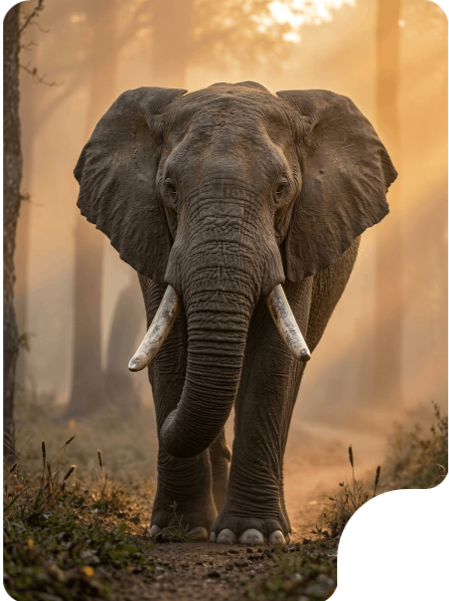
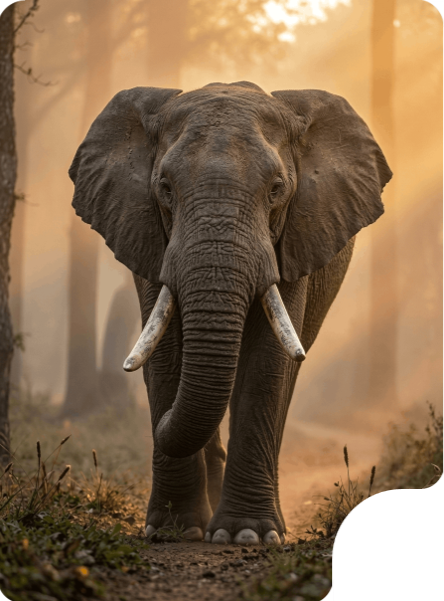
9th  commit

diff --git a/src/components/SliderForBlog.tsx b/src/components/SliderForBlog.tsx
@@ -1,0 +1,89 @@
+"use client";
+import React, { useRef } from "react";
+import Slider from "react-slick";
+import "slick-carousel/slick/slick.css";
+import "slick-carousel/slick/slick-theme.css";
+import { blogs } from "@/data/data";
+import Blog from "./ui/Blog";
+
+interface SliderForBlogProps {
+  viewPort: "desktop" | "tablet" | "mobile" | string;
+}
+
+export default function SliderForBlog({ viewPort }: SliderForBlogProps) {
+  const slides = blogs.map((item) => item);
+  const sliderRef = useRef<Slider>(null);
+
+  // Test by applying styles directly
+  const dotStyles = {
+    width: "35px",
+    height: "3px",
+    borderRadius: "5%",
+    backgroundColor: "#a0a0a0",
+  };
+
+  const activeDotStyles = {
+    ...dotStyles,
+    backgroundColor: "#000000",
+  };
+
+  return (
+    <div className={` w-full px-1 sm:px-0  pb-10  h-full  relative  `}>
+      <Slider
+        ref={sliderRef}
+        dots={false}
+        infinite={true}
+        arrows={false}
+        slidesToShow={
+          viewPort === "desktop" ? 3 : viewPort === "tablet" ? 2 : 1
+        }
+        slidesToScroll={1}
+        autoplay={true}
+        autoplaySpeed={6000}
+        speed={500}
+        dotsClass="slick-dots custom-dots top-[85%] md:left-[110px] lg:left-[210px] md:top-[-20%] "
+        customPaging={(i) => {
+          const currentSlide = (
+            sliderRef.current as unknown as {
+              innerSlider?: { state: { currentSlide: number } };
+            }
+          )?.innerSlider?.state.currentSlide;
+
+          return (
+            <div
+              className="flex items-center justify-center gap-10"
+              style={i === currentSlide ? activeDotStyles : dotStyles}
+            ></div>
+          );
+        }}
+        responsive={[
+          {
+            breakpoint: 768,
+            settings: {
+              slidesToShow:
+                viewPort === "desktop" ? 3 : viewPort === "tablet" ? 2 : 1,
+            },
+          },
+          {
+            breakpoint: 576,
+            settings: {
+              slidesToShow:
+                viewPort === "desktop" ? 3 : viewPort === "tablet" ? 2 : 1,
+            },
+          },
+        ]}
+      >
+        {slides.map((item, i) => (
+          <div key={i} className={` w-full h-full px-5 md:px-0  `}>
+            <Blog
+              name={item.name}
+              image={item.image}
+              title={item.title}
+              link={item.link}
+            />
+          </div>
+        ))}
+      </Slider>
+    </div>
+  );
+}

diff --git a/src/app/page.tsx b/src/app/page.tsx
@@ -4,11 +4,10 @@ import DualToggleButtons from "@/components/ui/DualButtons";
 import Image from "next/image";
 import { Star } from "lucide-react";
 import OrangeButton from "@/components/ui/OrangeButton";
-import { blogs } from "../data/data";
-import { GenericSlider } from "@/components/ui/GenericSlider";
 import ClientOnly from "@/components/ui/ClientOnly";
 import Testimonials from "@/components/Testimonials";
 import Education from "@/components/Education";
+import SliderForBlog from "@/components/SliderForBlog";
 
 export default function Home() {
   return (
@@ -379,21 +378,24 @@ export default function Home() {
         </div> */}
 
       {/* Blog */}
-      <div className="flex flex-col w-full h-fit items-center gap-12 px-[71px] py-[97px]">
-        <div className="  w-full flex flex-col lg:flex-row items-center justify-between gap-6 pb-10 mb-6 md:mb-0">
-          <h1 className="text-[#344054] w-fit md:min-w-[215px] h-full font-bold text-4xl md:text-5xl">
+      <div className="flex flex-col w-full h-fit items-center gap-12 px-5 md:px-[71px] border">
+        <div className="  w-full flex flex-col lg:flex-row items-center justify-between gap-6">
+          <h1 className="text-[#344054] w-fit  h-full font-bold text-2xl md:text-5xl">
             From my blog post
           </h1>
           <a href="https://thecanofy.blogspot.com/" target="blank">
             <OrangeButton title="See All" className=" " />
           </a>
         </div>
-        <GenericSlider
-          data={blogs}
-          slidesPerView={3}
-          heightClass=""
-          cardType="blog"
-        />
+        <div className=" w-full md:hidden">
+          <SliderForBlog viewPort="mobile" />
+        </div>
+        <div className=" w-full hidden md:block lg:hidden">
+          <SliderForBlog viewPort="tablet" />
+        </div>
+        <div className=" w-full hidden lg:block">
+          <SliderForBlog viewPort="desktop" />
+        </div>
       </div>
     </div>
   );

diff --git a/src/components/Education.tsx b/src/components/Education.tsx
@@ -37,7 +37,7 @@ export default function Education() {
           className="font-medium text-4xl sm:text-5xl lg:text-6xl text-[#FD853A]"
         />
       </div>
-      <div className="w-full lg:hidden">
+      <div className="w-full pt-10 md:hidden">
         {experiences.map((exp, index) => (
           <div
             key={index}
@@ -78,7 +78,7 @@ export default function Education() {
           </div>
         ))}
       </div>
-      <div className="w-full hidden scale-75 lg:flex justify-evenly">
+      <div className="w-full hidden scale-75 md:flex justify-evenly">
         <div className="flex flex-col justify-between w-[500px] gap-[60px]">
           {experiences.map((exp, index) => (
             <div key={index} className="flex flex-col gap-[14px] relative">

diff --git a/src/components/ui/GenericSlider.tsx b/src/components/ui/GenericSlider.tsx
@@ -125,11 +125,11 @@ export function GenericSlider<T extends AllowedCard>({
               spaceBetween: 16,
             },
             640: {
-              slidesPerView: isPortfolio || isBlog || isReview ? 1 : 2,
+              slidesPerView: isPortfolio || isBlog || isReview ? 1 : 3,
               spaceBetween: 18,
             },
             850: {
-              slidesPerView: isPortfolio || isBlog || isReview ? 1 : 2,
+              slidesPerView: isPortfolio || isBlog || isReview ? 1 : 3,
               spaceBetween: 20,
             },
             1024: {

diff --git a/src/data/data.ts b/src/data/data.ts
@@ -15,9 +15,9 @@ export interface IconAndText {
 
 export interface Blog {
   image: string;
-  button: string;
+  button?: string;
   name: string;
-  date: string;
+  date?: string;
   title: string;
   link: string;
 }

diff --git a/src/components/Footer.tsx b/src/components/Footer.tsx
@@ -30,7 +30,7 @@ const Footer = () => {
   return (
     <footer className="w-full min-h-[400px] lg:h-[685px] px-4 sm:px-6 lg:px-[71px] py-[30px] sm:py-[35px] lg:py-[40px] flex flex-col bg-[#272727] rounded-t-2xl sm:rounded-t-3xl text-white justify-between">
       {/* Top Section */}
-      <div className="w-full flex flex-col lg:flex-row items-center justify-between gap-6">
+      <div className="w-full flex flex-col md:flex-row items-center justify-between gap-6">
         <h1 className="font-semibold leading-tight text-[32px] sm:text-[40px] lg:text-[48px] xl:text-[64px] text-[#FCFCFD] text-center lg:text-left">
           Let&apos;s Connect There
         </h1>

diff --git a/src/components/ui/Blog.tsx b/src/components/ui/Blog.tsx
@@ -15,7 +15,7 @@ const Blog: React.FC<BlogProps> = ({
   priority = false,
 }) => {
   return (
-    <div className="flex relative flex-col w-full items-start gap-[35px]  s md:scale-80">
+    <div className=" w-full md:scale-80">
       <a href={link} target="blank">
         <div className="relative w-full  rounded-3xl gap-[10px] overflow-hidden items-start group ">
           <Image